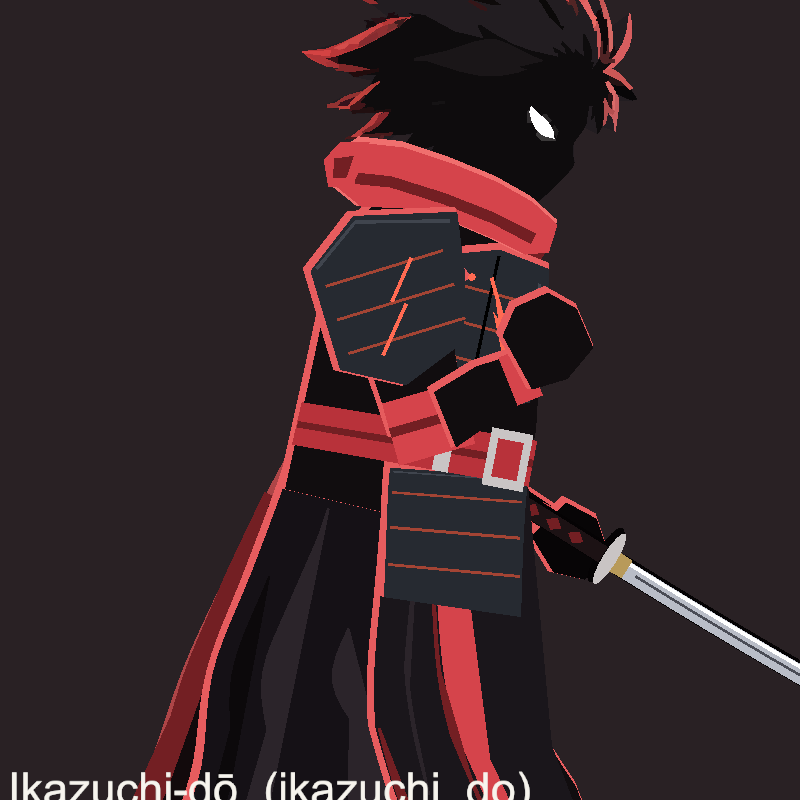
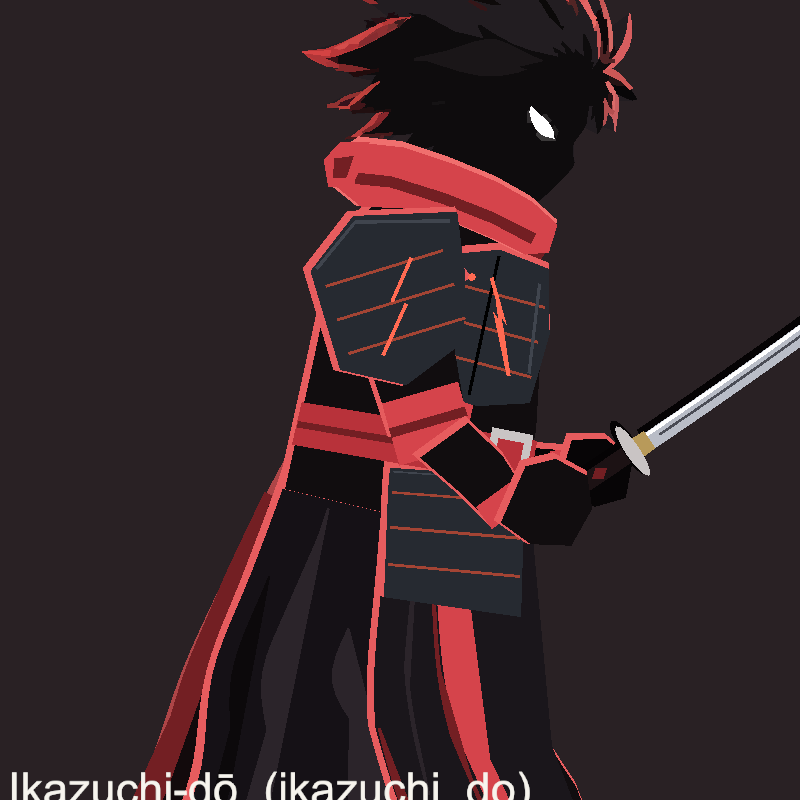
SAN-85: re-render the armour review images (Mugen ring in every pose and facing), trophy sheets; ring a little thicker

Changed region(s): [[0.5312, 0.3438, 1.0, 0.875]]

diff --git a/Assets/Kage/Tests/PlayMode/ArmorScreenshots.cs b/Assets/Kage/Tests/PlayMode/ArmorScreenshots.cs
@@ -106,6 +106,58 @@ namespace Kage.Tests
                 FileAssert.Exists(Path.Combine(OutDir, f));
         }
 
+        /// <summary>The trophies the Armory shows after the first two (SAN-90 rework): each gets its own look.</summary>
+        public static readonly string[] OtherTrophies =
+        {
+            "shirabe_do", "kasane_haori", "tetsumon_do", "kudamaki_do", "mei_en_garb", "kysmei_robe", "kurokumo_yoroi", "shinsei_yoroi",
+        };
+
+        [Test]
+        public void SheetOfTheOtherTrophies()
+        {
+            Assume.That(SystemInfo.graphicsDeviceType != GraphicsDeviceType.Null, "needs a GPU: run without -nographics");
+            Directory.CreateDirectory(OutDir);
+            var close = new Dictionary<string, List<Color32[]>>();
+            var torso = new List<Color32[]>();
+            foreach (var pose in Poses) close[pose] = new List<Color32[]>();
+            foreach (var id in OtherTrophies)
+            {
+                string label = Label(id);
+                foreach (var pose in Poses)
+                {
+                    using var f = Pose(id, pose);
+                    close[pose].Add(Render(BodyCentre(f), 1.15f, label + "  " + pose));
+                    if (pose == "idle")
+                    {
+                        File.WriteAllBytes(Path.Combine(OutDir, $"armor_{id}.png"), Png(Render(TorsoCentre(f), 0.62f, label, 800, 800), 800, 800));
+                        torso.Add(Render(TorsoCentre(f), 0.55f, label));
+                    }
+                }
+            }
+            foreach (var pose in Poses) SheetCols($"armors_trophies_{pose}.png", close[pose], 4);
+            SheetCols("armors_trophies_chest_closeup.png", torso, 4);
+            FileAssert.Exists(Path.Combine(OutDir, "armors_trophies_idle.png"));
+            FileAssert.Exists(Path.Combine(OutDir, "armors_trophies_chest_closeup.png"));
+        }
+
+        [Test]
+        public void SheetOfTheMugenRingInEveryPoseAndFacing()
+        {
+            Assume.That(SystemInfo.graphicsDeviceType != GraphicsDeviceType.Null, "needs a GPU: run without -nographics");
+            Directory.CreateDirectory(OutDir);
+            var cells = new List<Color32[]>();
+            foreach (var facing in new[] { 1f, -1f })
+                foreach (var pose in Poses)
+                {
+                    using var f = Pose("mugen_yoroi", pose);
+                    f.Kage.rig.SetFacing(facing, true);
+                    var c = BodyCentre(f);
+                    cells.Add(Render(new Vector2(c.x, c.y + 0.35f), 0.95f, $"mugen ring  {pose}  facing {(facing > 0 ? "right" : "left")}"));
+                }
+            SheetCols("mugen_ring_poses.png", cells, Poses.Length);
+            FileAssert.Exists(Path.Combine(OutDir, "mugen_ring_poses.png"));
+        }
+
         [Test]
         public void SheetOfHelmetAndArmourCombinations()
         {

diff --git a/Assets/Kage/Scripts/Character/Gear/ArmorLooks.cs b/Assets/Kage/Scripts/Character/Gear/ArmorLooks.cs
@@ -455,8 +455,8 @@ namespace Kage
         static void Halo(ArmorArt a, ArmorTheme t)
         {
             float R = HaloRadius;
-            a.Fill(B.Head, HaloOrder, t.redLo, false, HaloBand(R, R * 0.87f));
-            a.Fill(B.Head, HaloOrder + 1, t.red, false, HaloBand(R * 0.975f, R * 0.895f), 1.5f);
+            a.Fill(B.Head, HaloOrder, t.redLo, false, HaloBand(R, R * 0.85f));
+            a.Fill(B.Head, HaloOrder + 1, t.red, false, HaloBand(R * 0.98f, R * 0.88f), 1.5f);
         }
 
         // ---------------------------------------------------------------- the chest piece
